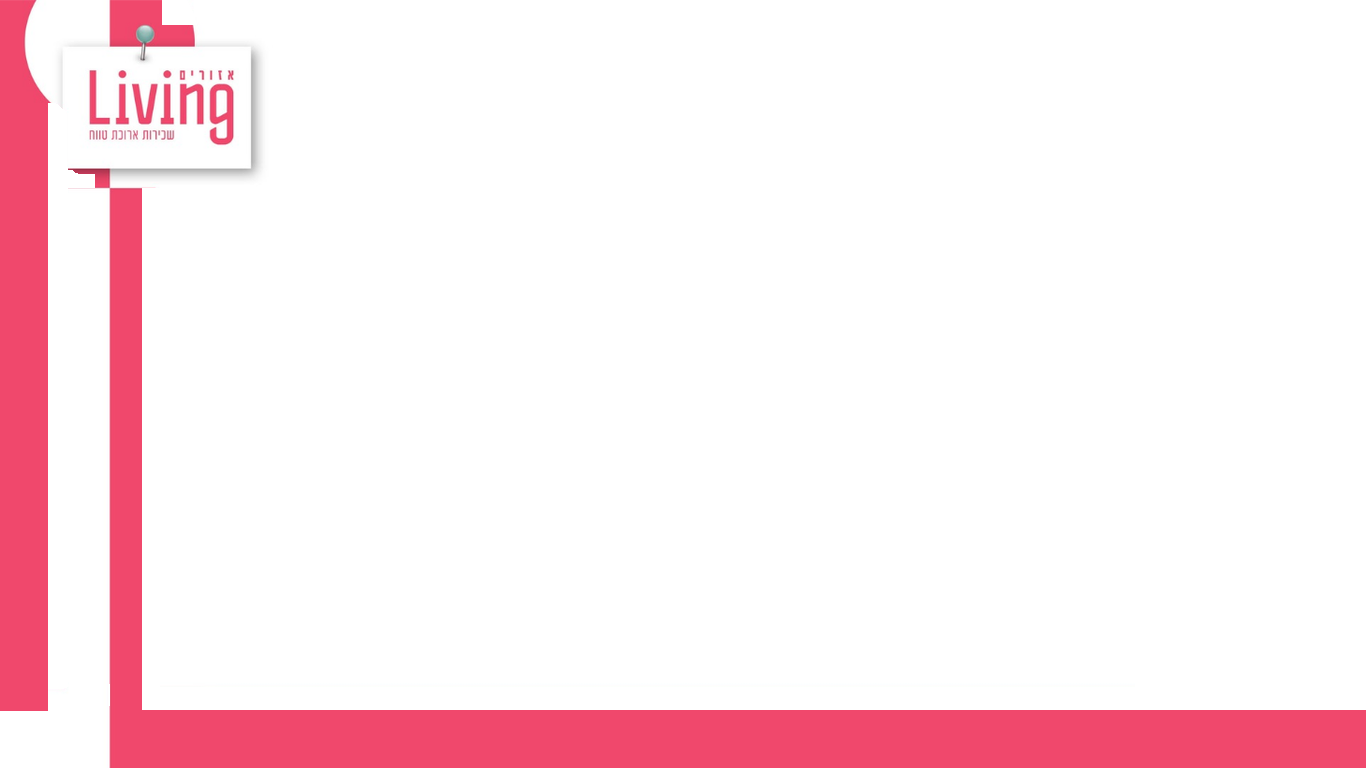
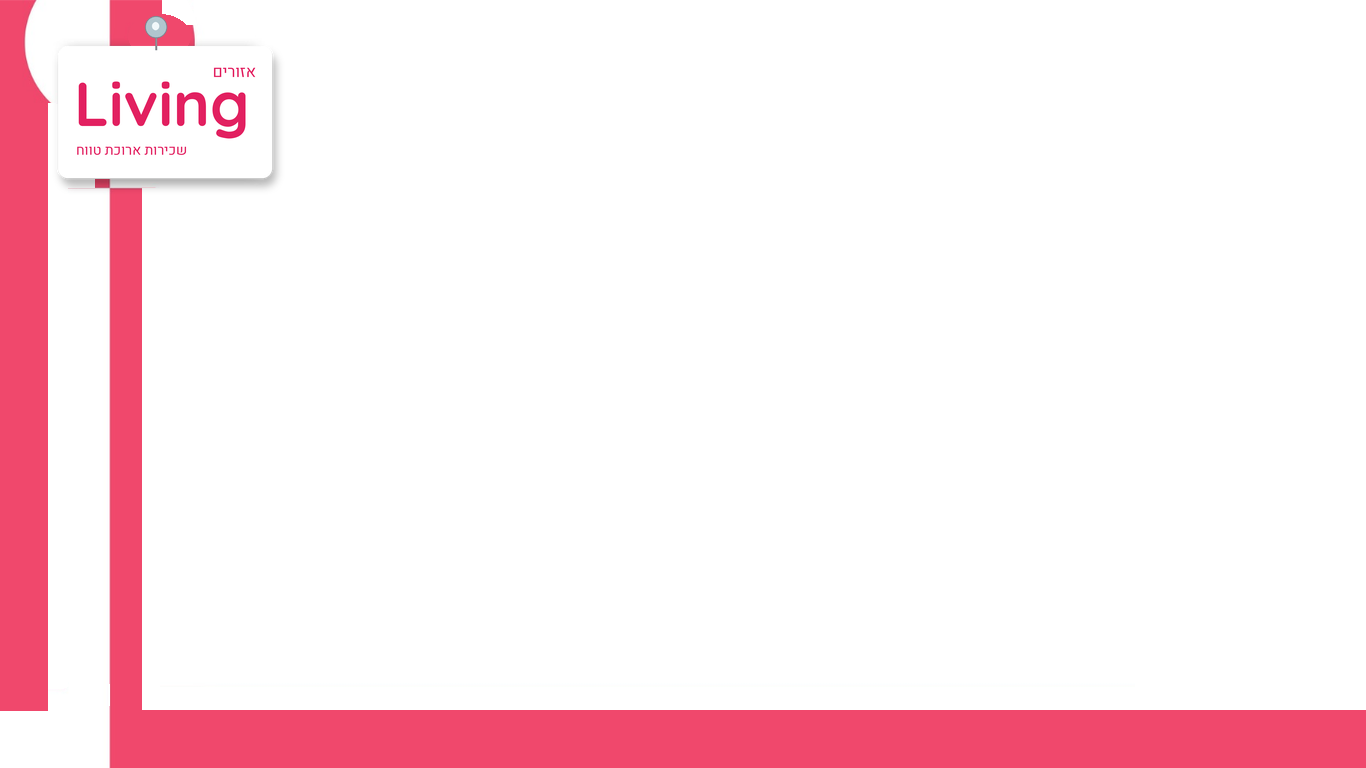
Use the cream and charcoal footer on the Azorim theme.
The Living mark on the background is redrawn sharper as well.

Changed region(s): [[0.0307, 0.0, 0.2152, 0.25]]

diff --git a/components/themes/azorim.css b/components/themes/azorim.css
@@ -121,19 +121,19 @@
   display: flex;
   align-items: center;
   border-radius: 16px;
-  box-shadow: 0 10px 18px rgba(110, 16, 42, 0.28);
+  box-shadow: 0 10px 22px rgba(20, 16, 18, 0.28);
 }
 .layout-azorim .az-hello {
   flex-direction: column;
   justify-content: center;
   padding: 0 18px;
-  background: #ff8aa8;
-  color: #fff;
+  background: #FFF6F2;
+  color: #3A1C28;
   direction: rtl;
   text-align: center;
 }
 .layout-azorim .az-hello small {
-  color: #fff4f7;
+  color: #C43A60;
   font-size: 20px;
   font-weight: 300;
 }
@@ -142,12 +142,13 @@
   font-size: 30px;
   font-weight: 500;
   line-height: 1.2;
+  color: #3A1C28;
 }
 .layout-azorim .az-info {
   justify-content: space-between;
   gap: 12px;
   padding: 0 16px;
-  background: #d42758;
+  background: #242426;
   direction: rtl;
 }
 .layout-azorim .az-info img {
@@ -170,7 +171,7 @@
 .layout-azorim .az-time span {
   display: block;
   margin-top: 4px;
-  color: #ffe3eb;
+  color: #E8C4CE;
   font-size: 18px;
   font-weight: 400;
   direction: rtl;
